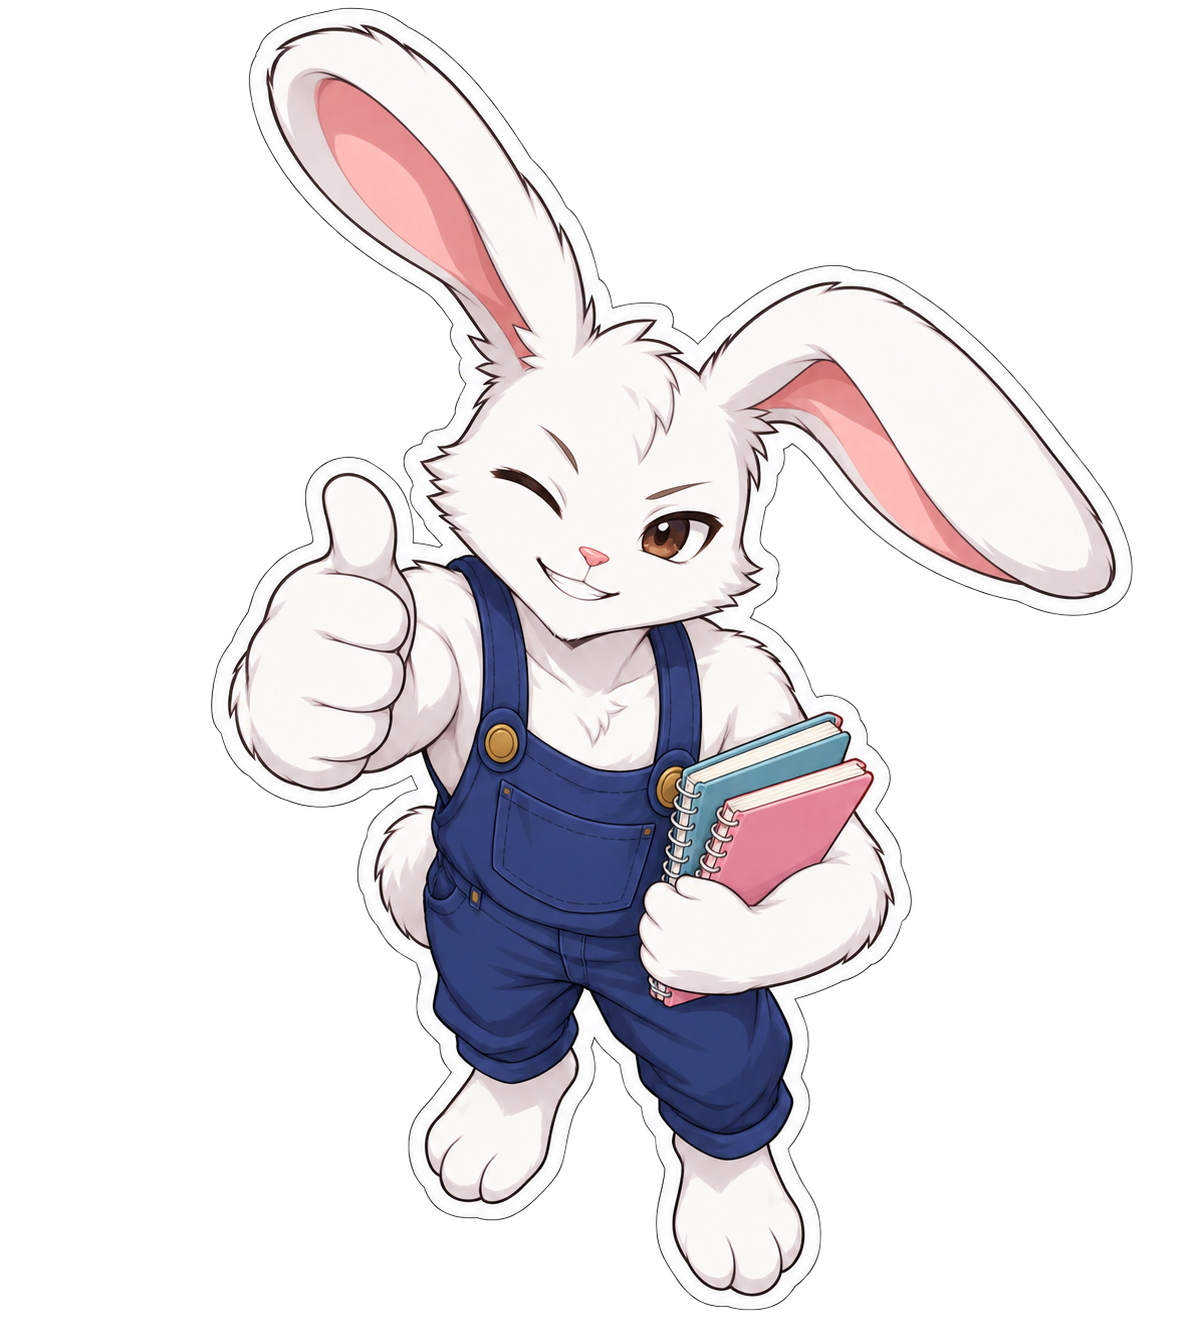
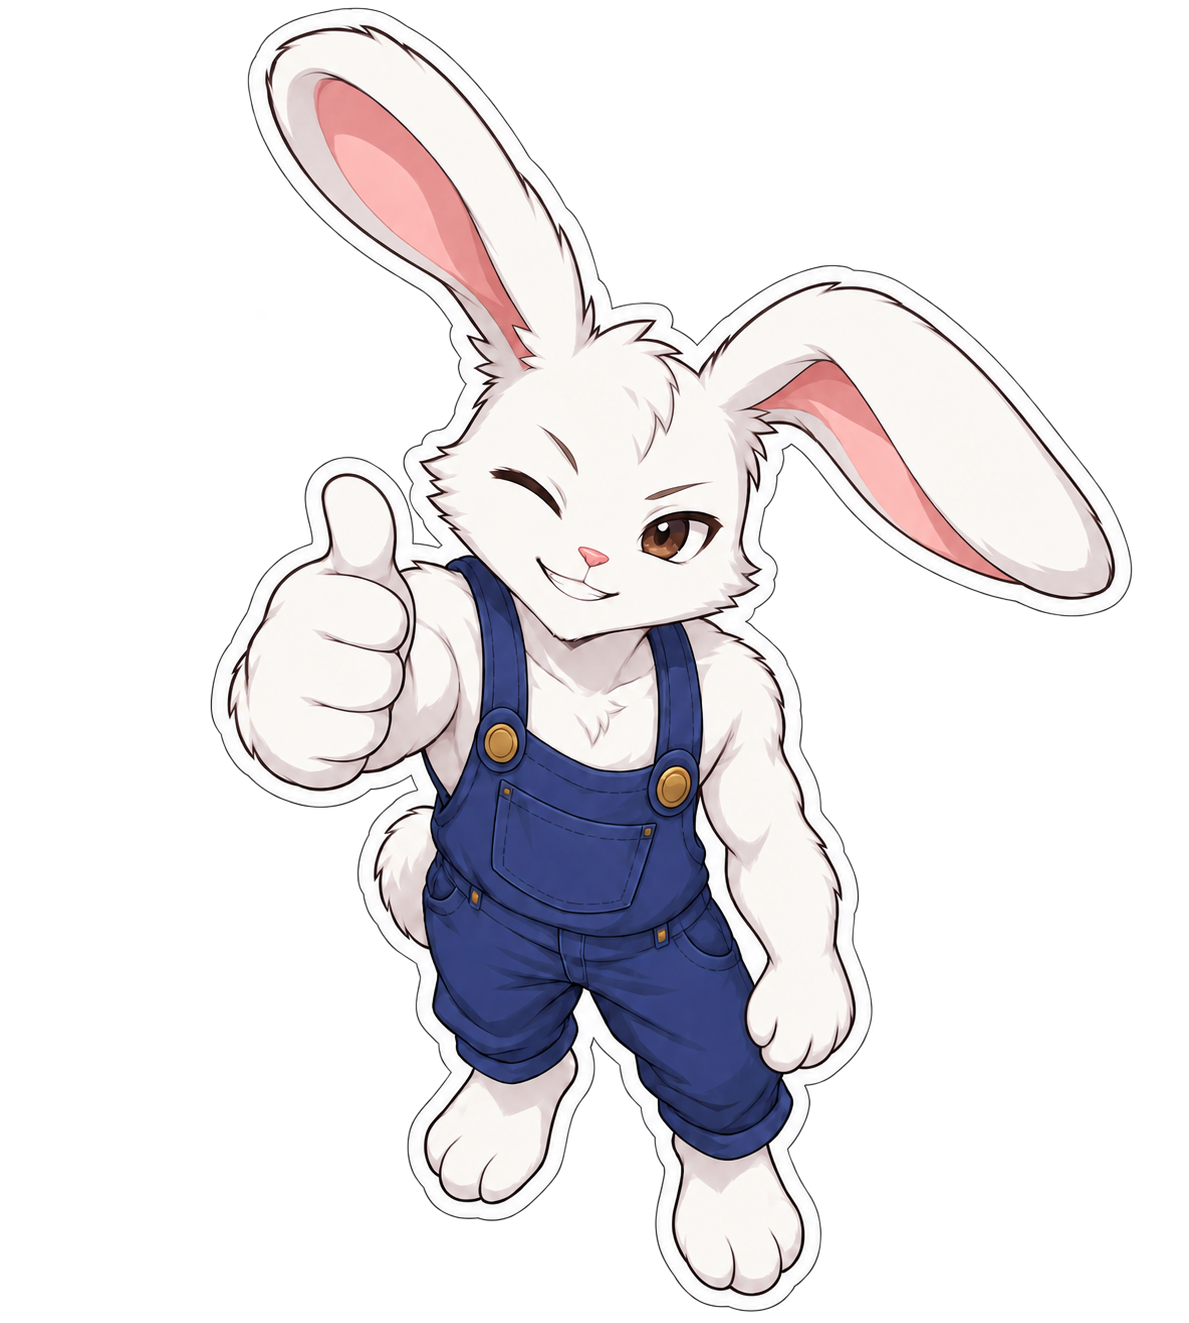
Remove loading text and update bunny relaxed arm

diff --git a/app.js b/app.js
@@ -17,9 +17,9 @@ function qs(){return state.ids.map(id=>BANK.find(q=>q.id===id));}
 function answered(){return qs().filter(q=>S.complete(q,state.answers[q.id])).length;}
 function testAudioPlaying(active){const button=document.getElementById('testAudio');if(button)button.className=active?'is-playing':'';}
 function stopAudio(){testAudioPlaying(false);if(speech){speech.pause();speech.currentTime=0;speech=null;}const status=document.getElementById('audioStatus');if(status)status.textContent='';}
-function speak(id,rate=1){stopAudio();const audio=document.getElementById('examAudio');if(!audio)return;audio.src='assets/audio/'+id+'.wav';audio.playbackRate=rate;audio.preservesPitch=true;speech=audio;const status=document.getElementById('audioStatus');if(status)status.textContent='Cargando audio…';audio.onplaying=()=>{testAudioPlaying(id==='test');if(status)status.textContent='';};audio.onpause=()=>testAudioPlaying(false);audio.onwaiting=()=>testAudioPlaying(false);audio.onended=()=>{testAudioPlaying(false);if(status)status.textContent='';speech=null;};audio.onerror=()=>{testAudioPlaying(false);if(status)status.textContent='No se pudo reproducir. Avisa al profesor.';};audio.play().catch(error=>{if(error.name!=='AbortError'){testAudioPlaying(false);if(status)status.textContent='No se pudo reproducir. Toca Escuchar de nuevo.';}});}
+function speak(id,rate=1){stopAudio();const audio=document.getElementById('examAudio');if(!audio)return;audio.src='assets/audio/'+id+'.wav';audio.playbackRate=rate;audio.preservesPitch=true;speech=audio;const status=document.getElementById('audioStatus');if(status)status.textContent='';audio.onplaying=()=>{testAudioPlaying(id==='test');if(status)status.textContent='';};audio.onpause=()=>testAudioPlaying(false);audio.onwaiting=()=>testAudioPlaying(false);audio.onended=()=>{testAudioPlaying(false);if(status)status.textContent='';speech=null;};audio.onerror=()=>{testAudioPlaying(false);if(status)status.textContent='No se pudo reproducir. Avisa al profesor.';};audio.play().catch(error=>{if(error.name!=='AbortError'){testAudioPlaying(false);if(status)status.textContent='No se pudo reproducir. Toca Escuchar de nuevo.';}});}
 function audioPlayer(){return '<audio id="examAudio" preload="none"></audio><span id="audioStatus" class="audio-status" role="status" aria-live="polite"></span>';}
-function startScreen(){if(state)return state.done?results():state.readyToSubmit?review():renderQuestion();view='start';stopAudio();app.innerHTML=`<div class="intro"><section class="card dark"><h1>Evaluación<br>de inglés</h1><p class="muted">Responde los cinco temas.</p><div class="stats"><div><strong>45</strong><span>ejercicios breves</span></div><div><strong>5</strong><span>temas</span></div><div><strong>90</strong><span>min aprox.</span></div></div><div class="topics-content"><ul class="topic-list">${TOPICS.map(t=>`<li>${esc(t)}</li>`).join('')}</ul><img class="exam-bunny" src="assets/exam-bunny.png" alt="Conejito con peto azul, cuadernos y pulgar levantado, listo para la evaluación" width="1190" height="1322"></div></section><section class="card"><div class="eyebrow">Datos del alumno</div><h2>Registra tus datos</h2><form id="startForm"><label class="field" for="name">Nombre completo<input id="name" required maxlength="100" autocomplete="name" placeholder="Escribe tu nombre"></label><label class="field" for="group">Cuatrimestre<select id="group" required><option value="">Selecciona tu cuatrimestre</option><option value="Sexto cuatrimestre">Sexto cuatrimestre</option><option value="Tercer cuatrimestre">Tercer cuatrimestre</option></select></label><div class="audio-box">${audioPlayer()}<div class="row" style="margin-top:12px"><button type="button" id="testAudio">Probar audio</button><button type="button" id="stopAudio">Detener</button></div></div><button class="primary wide" type="submit">Iniciar prueba</button></form></section></div>`;
+function startScreen(){if(state)return state.done?results():state.readyToSubmit?review():renderQuestion();view='start';stopAudio();app.innerHTML=`<div class="intro"><section class="card dark"><h1>Evaluación<br>de inglés</h1><p class="muted">Responde los cinco temas.</p><div class="stats"><div><strong>45</strong><span>ejercicios breves</span></div><div><strong>5</strong><span>temas</span></div><div><strong>90</strong><span>min aprox.</span></div></div><div class="topics-content"><ul class="topic-list">${TOPICS.map(t=>`<li>${esc(t)}</li>`).join('')}</ul><img class="exam-bunny" src="assets/exam-bunny.png" alt="Conejito con peto azul y pulgar levantado, listo para la evaluación" width="1190" height="1322"></div></section><section class="card"><div class="eyebrow">Datos del alumno</div><h2>Registra tus datos</h2><form id="startForm"><label class="field" for="name">Nombre completo<input id="name" required maxlength="100" autocomplete="name" placeholder="Escribe tu nombre"></label><label class="field" for="group">Cuatrimestre<select id="group" required><option value="">Selecciona tu cuatrimestre</option><option value="Sexto cuatrimestre">Sexto cuatrimestre</option><option value="Tercer cuatrimestre">Tercer cuatrimestre</option></select></label><div class="audio-box">${audioPlayer()}<div class="row" style="margin-top:12px"><button type="button" id="testAudio">Probar audio</button><button type="button" id="stopAudio">Detener</button></div></div><button class="primary wide" type="submit">Iniciar prueba</button></form></section></div>`;
  document.getElementById('testAudio').onclick=()=>speak('test');document.getElementById('stopAudio').onclick=stopAudio;
  document.getElementById('startForm').onsubmit=e=>{e.preventDefault();if(state)return;const name=document.getElementById('name').value.trim(),group=document.getElementById('group').value.trim();if(!name||!['Sexto cuatrimestre','Tercer cuatrimestre'].includes(group)){notice('Escribe tu nombre completo y selecciona tu cuatrimestre.');return;}state={version:VERSION,name,group,started:new Date().toISOString(),ids:[1,2,3,4,5].flatMap(t=>shuffle(BANK.filter(q=>q.topic===t)).map(q=>q.id)),answers:{},orderings:{},issues:{},plays:{},index:0,done:false};BANK.forEach(q=>{if(q.choices)state.orderings[q.id]=shuffle(q.choices);if(q.tokens)state.orderings[q.id]=shuffle(q.tokens.map((_,i)=>i));if(q.pairs)state.orderings[q.id]=shuffle(q.pairs.map(p=>p[1]));});save();renderQuestion();};
 }
